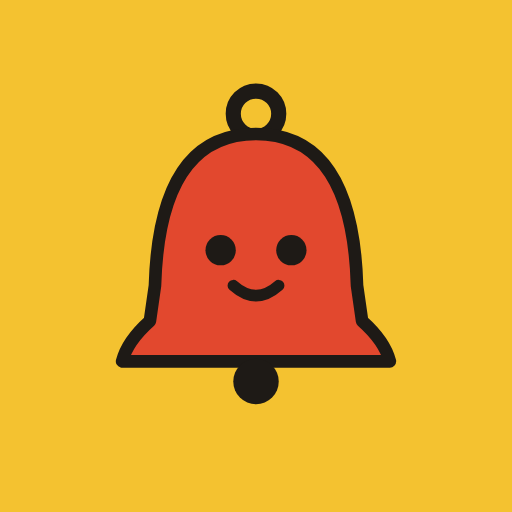
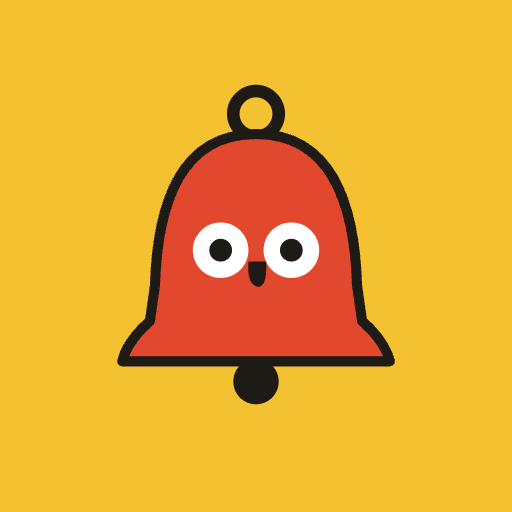
Tolli con las caras nuevas (guía de expresiones) y Tolli: Study en lugar de Ringwell

Changed region(s): [[0.2188, 0.3125, 0.7812, 0.7188], [0.375, 0.4375, 0.625, 0.5938], [0.375, 0.1562, 0.625, 0.3125]]

diff --git a/og-src/study-icon.html b/og-src/study-icon.html
@@ -1,0 +1,14 @@
+<!doctype html><html><head><meta charset="utf-8"><style>html,body{margin:0;width:512px;height:512px;background:#4F6A99}</style></head><body>
+<!-- Icono de Tolli: Study (512 px), el mismo del launcher de la app: Tolli coral con lentes sobre azul. -->
+<svg width="512" height="512" viewBox="0 0 200 200" xmlns="http://www.w3.org/2000/svg">
+<rect width="200" height="200" fill="#4F6A99"/>
+<g transform="translate(100 101) scale(0.9) translate(-100 -101)">
+<circle cx="100" cy="36" r="10" fill="none" stroke="#1A2236" stroke-width="6"/>
+<path d="M100,45 C68,45 57,74 56,112 L54,128 Q44,136 42,146 L158,146 Q156,136 146,128 L144,112 C143,74 132,45 100,45 Z" fill="#EE7A5C" stroke="#1A2236" stroke-width="5" stroke-linejoin="round"/>
+<circle cx="84" cy="96" r="11" fill="#fff"/><circle cx="116" cy="96" r="11" fill="#fff"/>
+<circle cx="84" cy="96" r="15" fill="none" stroke="#1A2236" stroke-width="5"/><circle cx="116" cy="96" r="15" fill="none" stroke="#1A2236" stroke-width="5"/>
+<path d="M99,95 Q100,91 101,95 M69,93 L60,89 M131,93 L140,89" fill="none" stroke="#1A2236" stroke-width="5" stroke-linecap="round"/>
+<circle cx="84" cy="96" r="4.5" fill="#1A2236"/><circle cx="116" cy="96" r="4.5" fill="#1A2236"/>
+<path d="M96,115 L105.5,115 Q106,128 101.2,128 Q95,127 96,115 Z" fill="#1A2236"/>
+<circle cx="100" cy="156" r="10" fill="#1A2236"/>
+</g></svg></body></html>

diff --git a/src/data/apps.ts b/src/data/apps.ts
@@ -64,16 +64,17 @@ export const apps: App[] = [
     nameFont: "'Fredoka', sans-serif",
   },
   {
-    slug: 'ringwell',
-    name: 'Ringwell',
+    slug: 'tolli-study',
+    name: 'Tolli: Study',
     status: 'building',
     platforms: 'Android',
-    icon: '',
+    icon: '/img/tolli-study-icon.png',
     tagline: {
-      en: 'The alarm for people who work rotating shifts.',
-      es: 'La alarma para quien trabaja por turnos.',
+      en: 'Tolli as your study buddy: she quizzes you in your Pomodoro breaks.',
+      es: 'Tolli como compañera de estudio: te pregunta en las pausas del Pomodoro.',
     },
-    hover: { bg: '#0E1724', ink: '#E8EEF3' },
+    hover: { bg: '#4F6A99', ink: '#FFF8E6' },
+    nameFont: "'Fredoka', sans-serif",
   },
 ];
 
